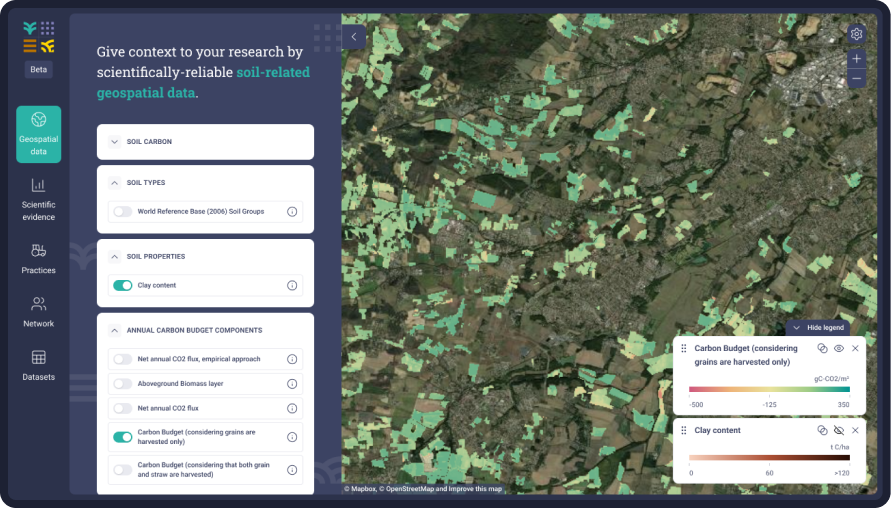
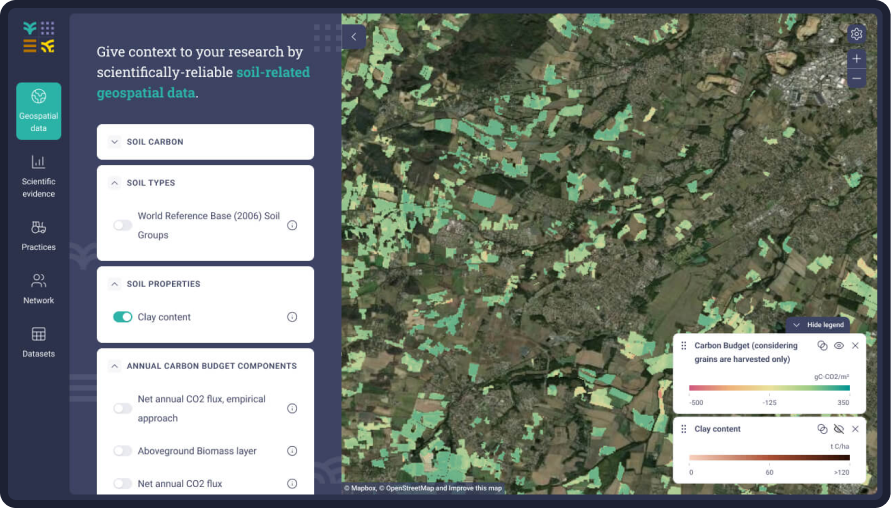
Add new images without “beta”

diff --git a/client/src/components/mobile-banner/index.tsx b/client/src/components/mobile-banner/index.tsx
@@ -7,10 +7,10 @@ import Image from 'next/image';
 import { Button } from '@/components/ui/button';
 
 const images = {
-  'geospatial-data': '/images/geospatial-data.png',
-  practices: '/images/practices.png',
-  network: '/images/network.png',
-  datasets: '/images/datasets.png',
+  'geospatial-data': '/images/mobile-geospatial-data.png',
+  practices: '/images/mobile-practices.png',
+  network: '/images/mobile-network.png',
+  datasets: '/images/mobile-datasets.png',
 };
 
 const Banner = ({
@@ -28,7 +28,9 @@ const Banner = ({
 
   const isBannerClosed =
     typeof window !== 'undefined' && localStorage.getItem('ORCASA_DESKTOP_BANNER_CLOSED');
+
   if (isBannerClosed || !bannerOpen) return null;
+
   return (
     <div className="relative z-10 h-[230px] bg-gray-800 text-white">
       <div className="flex justify-center gap-6 self-stretch px-4 pb-6 pt-4">
@@ -54,9 +56,14 @@ const Banner = ({
         alt="Desktop screen mockup of the website"
         height={246}
         width={437}
-        className="absolute -bottom-[60px] -right-8 h-[246px] w-[437px] object-contain pl-[107px]"
+        className="absolute -bottom-[68px] -right-8 h-[246px] w-[437px] object-contain pl-[107px]"
         src={images[section]}
       />
+      {section === 'network' && (
+        <div className="absolute bottom-[110px] flex w-full justify-end text-sm font-semibold">
+          <p className="rounded-l-lg bg-green-700 px-1.5 py-1">Add organisations and initiatives</p>
+        </div>
+      )}
     </div>
   );
 };
